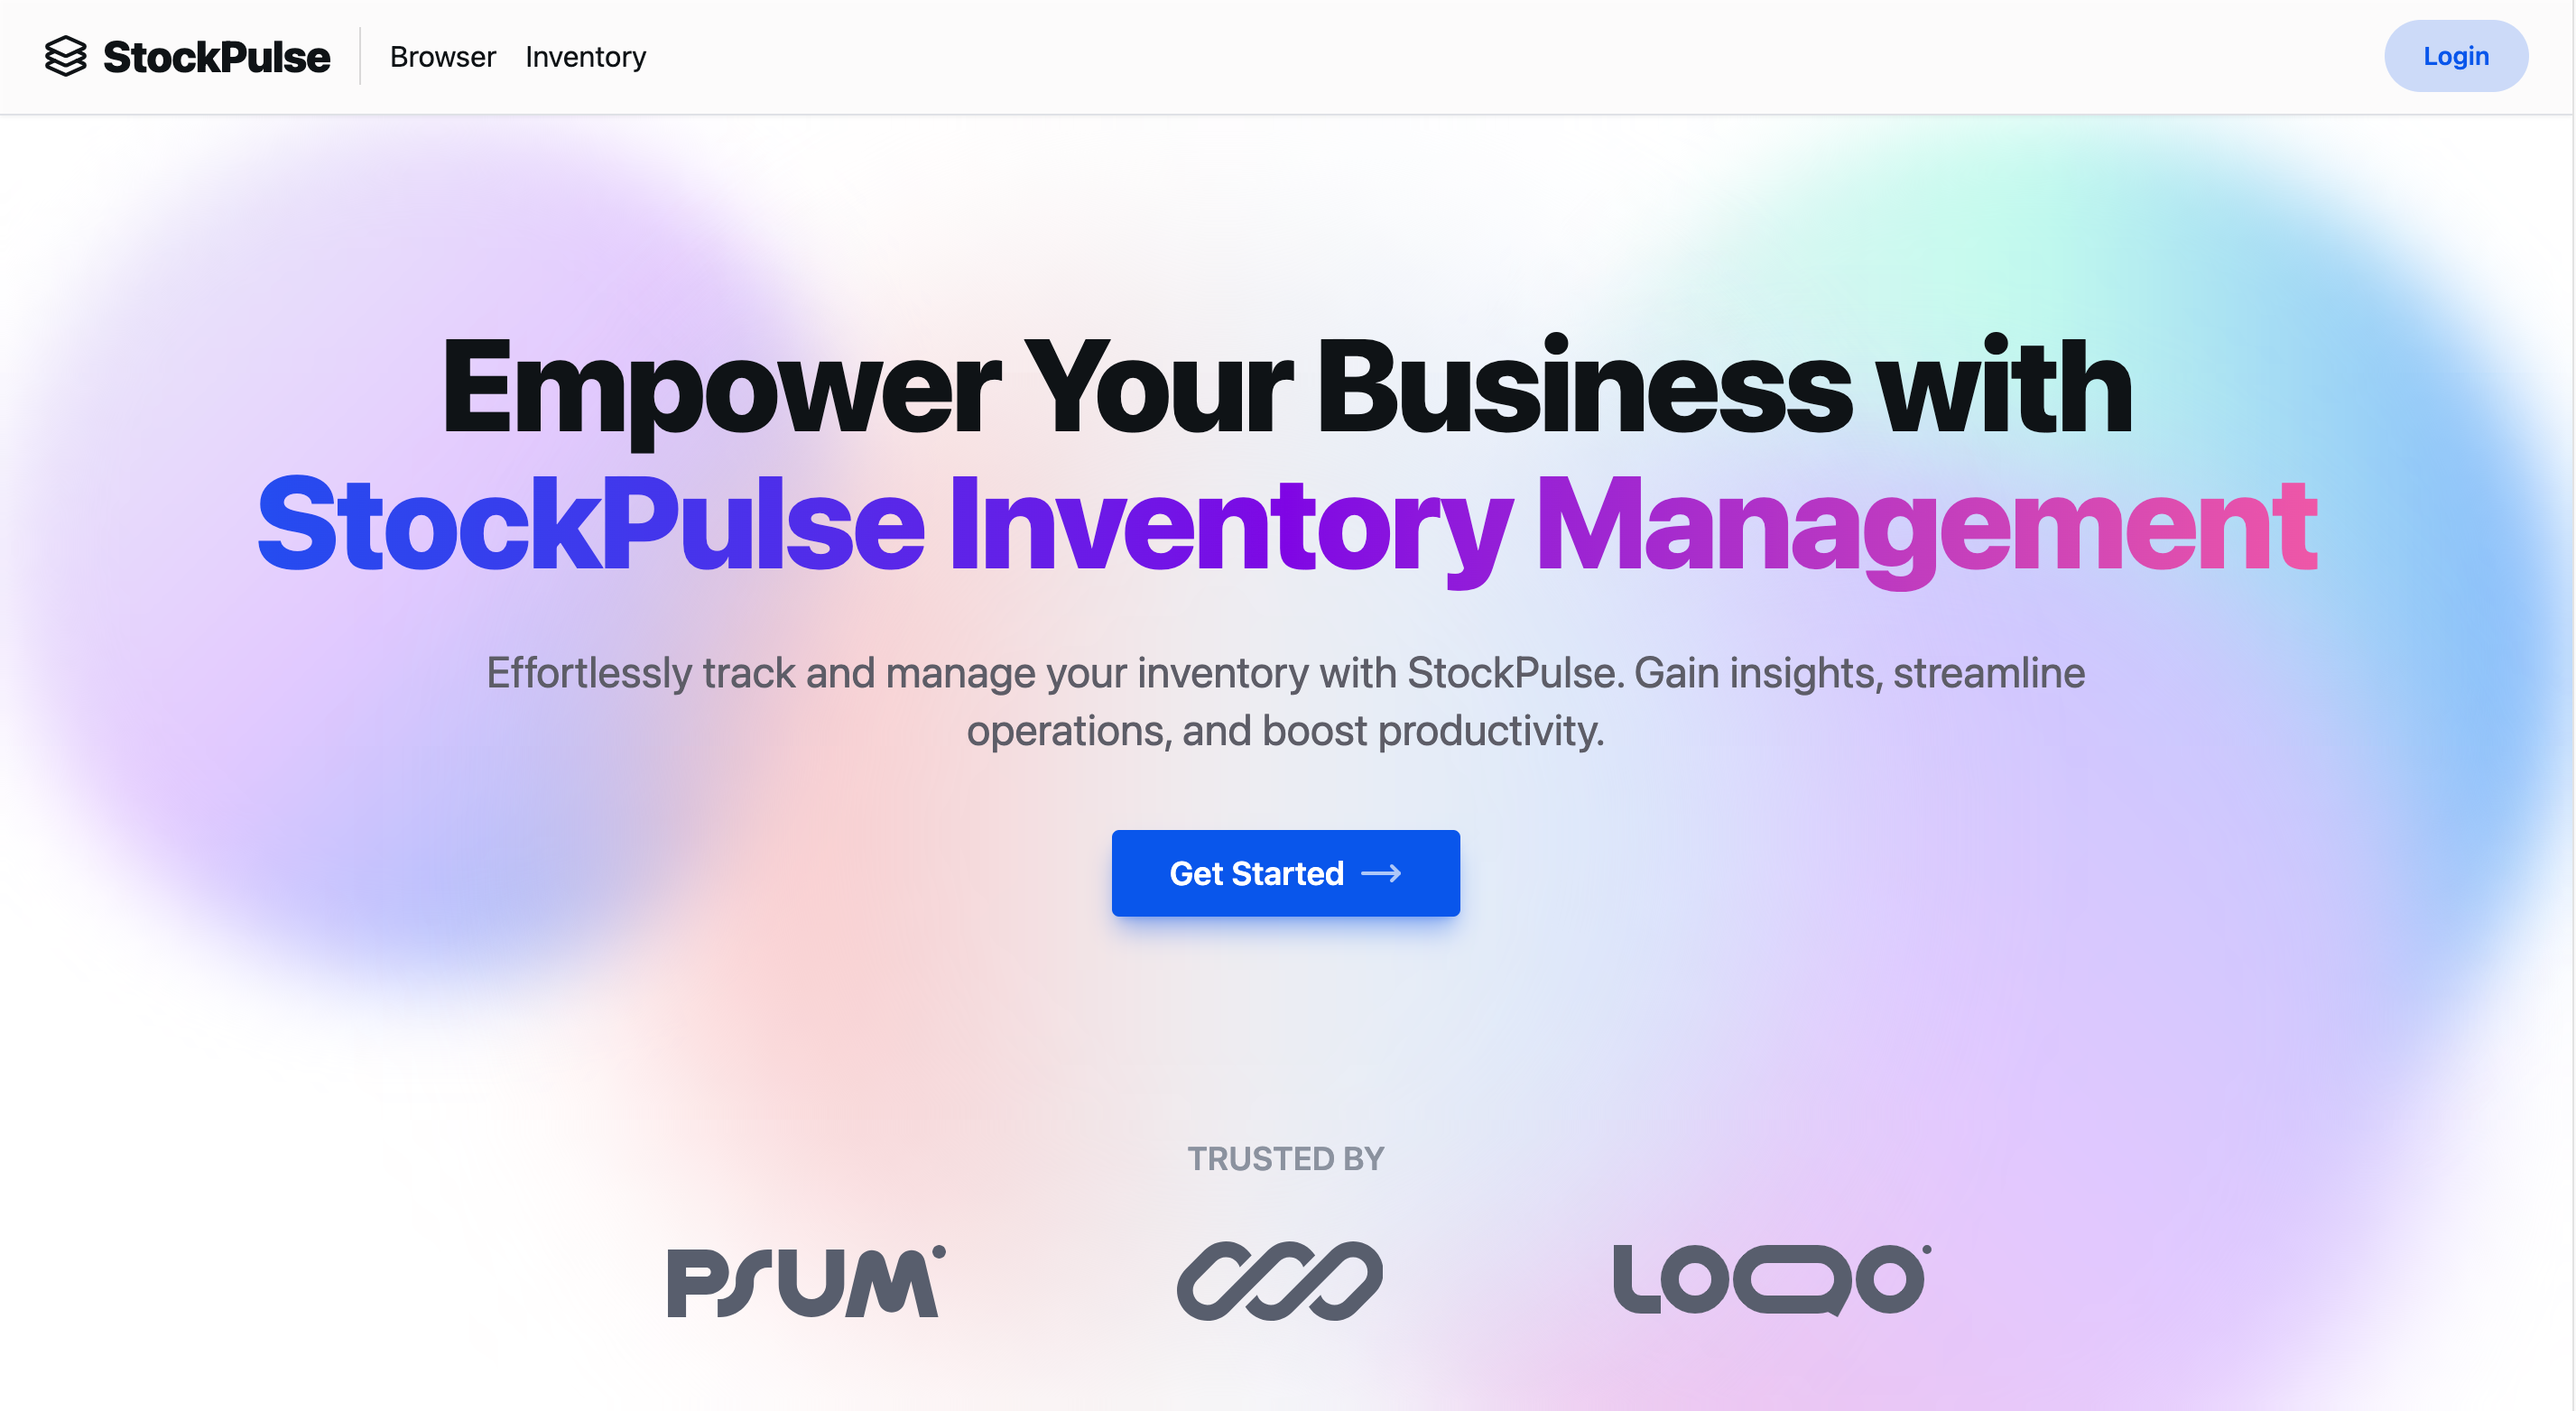
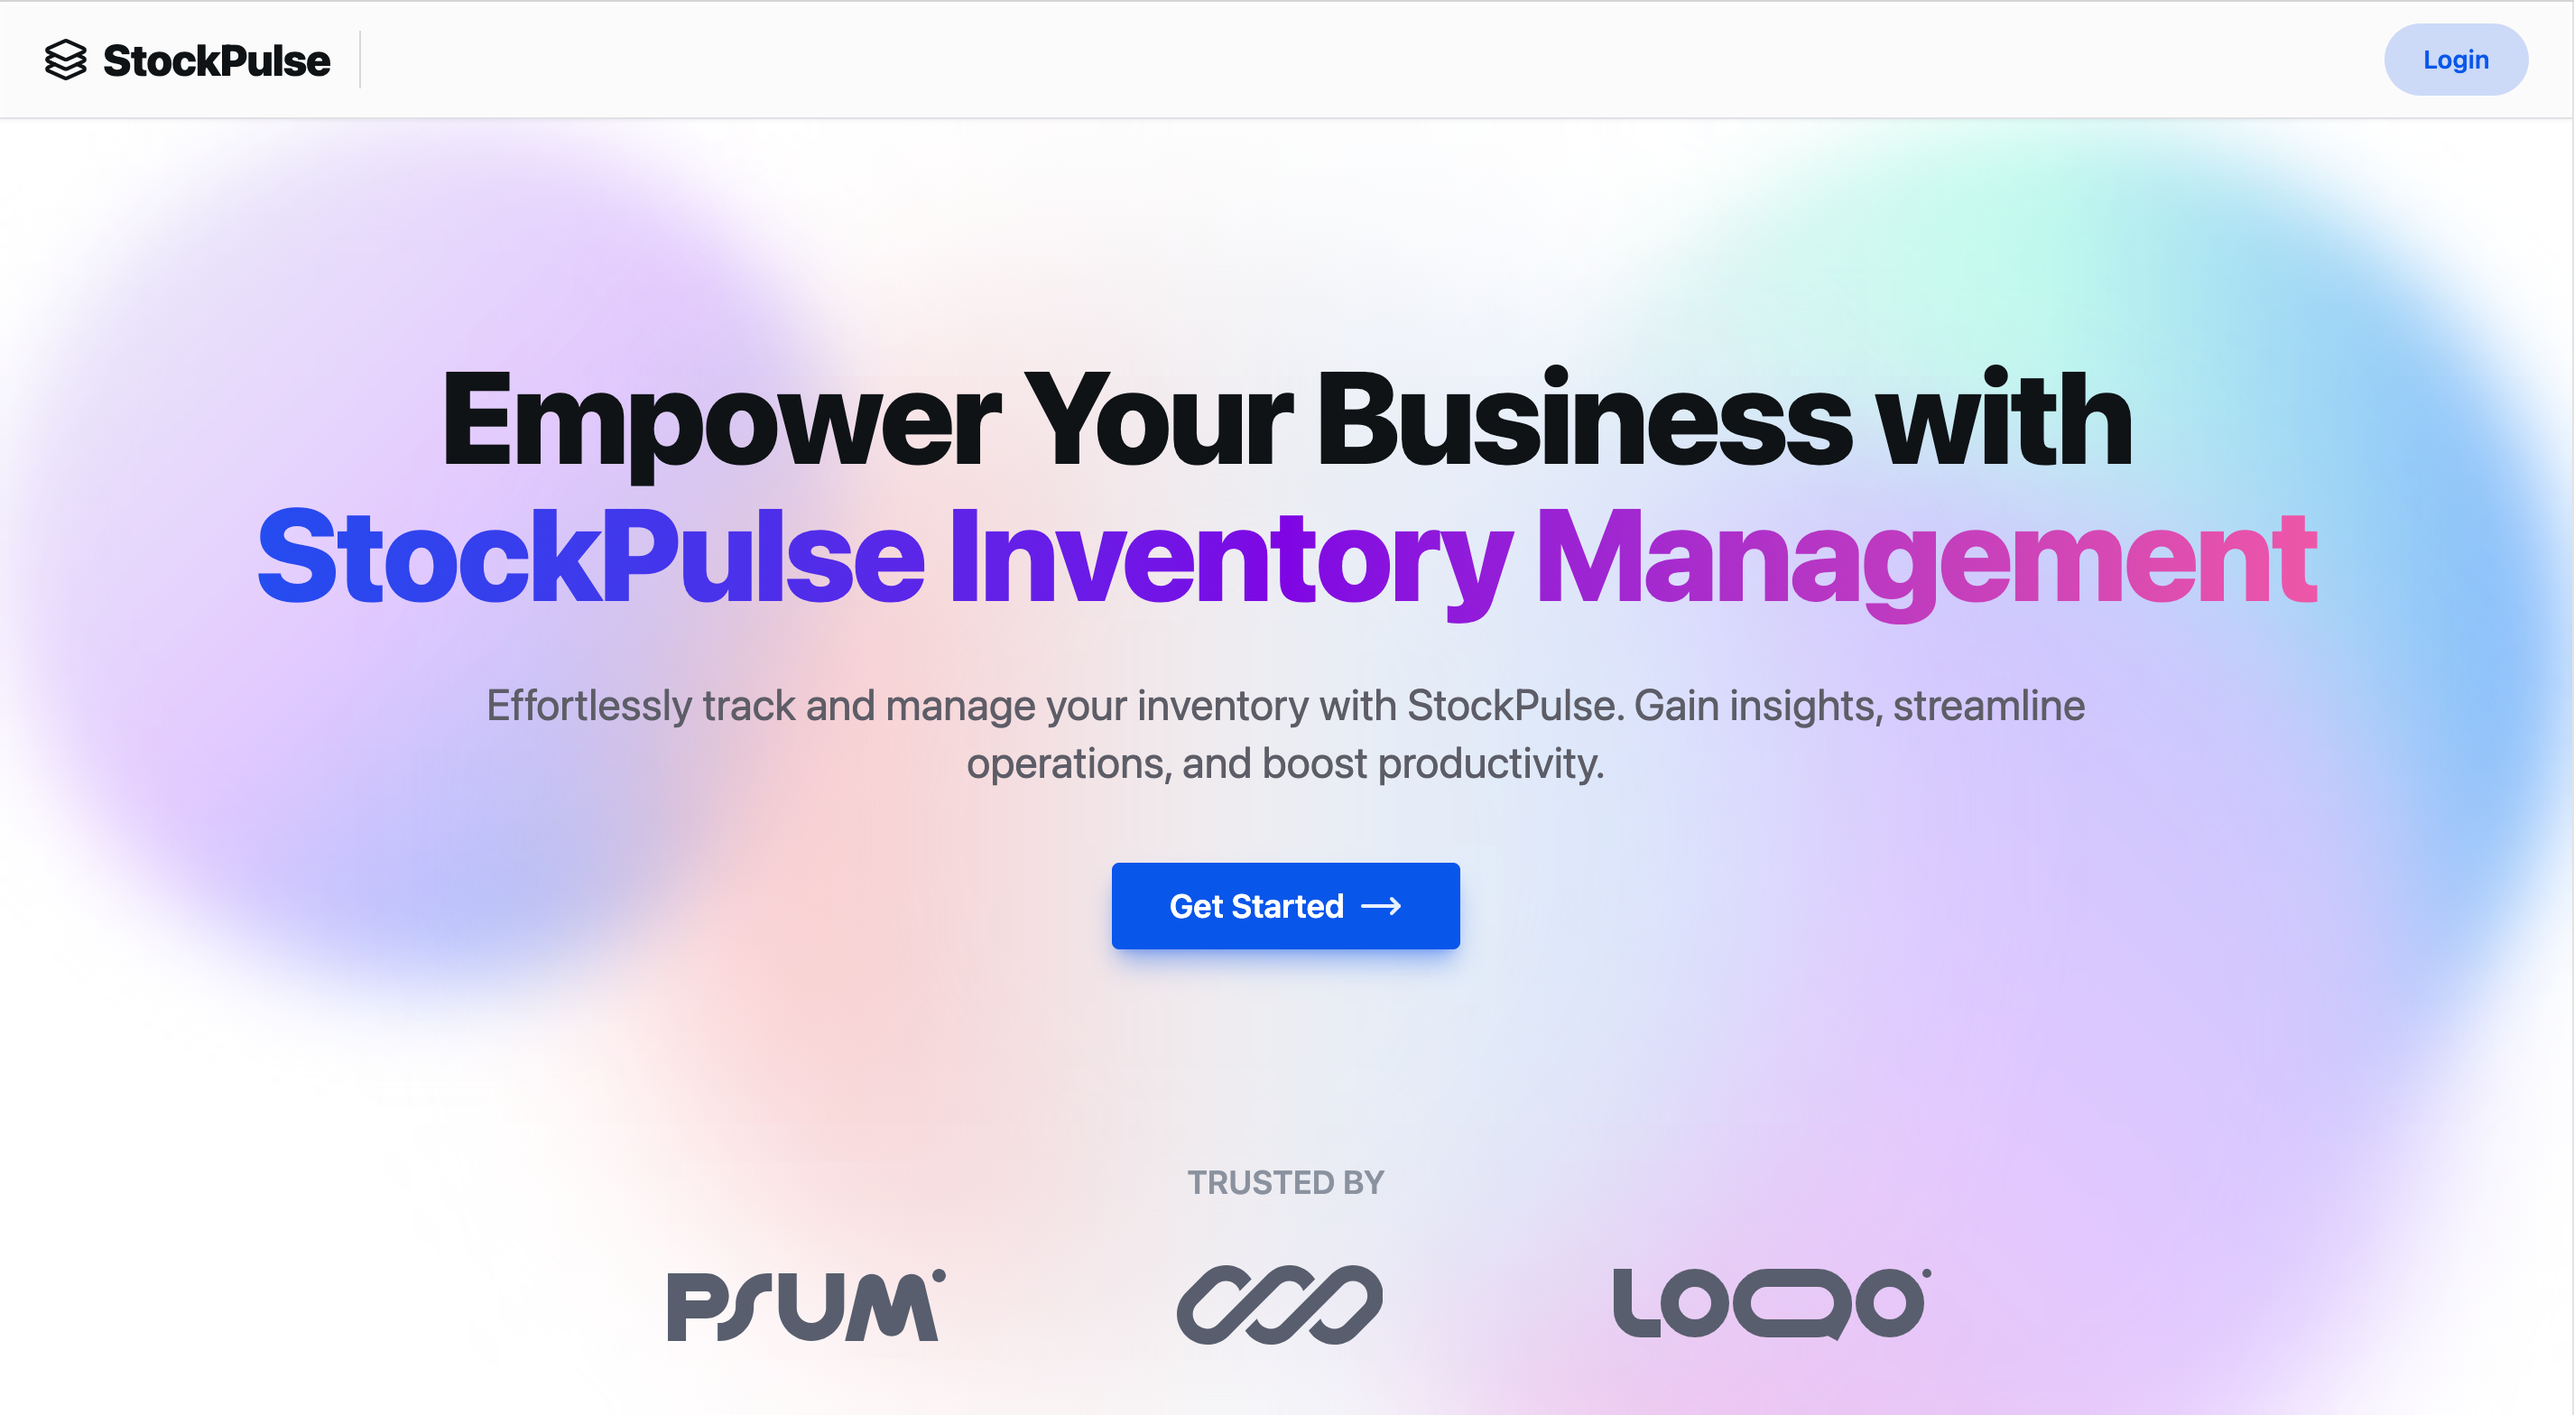
updated landing page screenshots

diff --git a/client/src/pages/Home.jsx b/client/src/pages/Home.jsx
@@ -8,36 +8,38 @@ import BackgroundGradient from "../components/BackgroundGradient";
 
 const Home = () => {
   return (
-    <div className="flex h-fit flex-col items-center justify-center gap-6 pt-24 sm:text-center">
-      <h1 className="text-3xl font-extrabold tracking-tight sm:text-4xl lg:text-7xl">
-        Empower Your Business with <br />
-        <span className="inline-flex bg-gradient-to-r from-[#2f68f3] via-purple-600 to-pink-400 bg-clip-text py-1 text-transparent">
-          StockPulse Inventory Management
-        </span>
-      </h1>
+    <div className="flex min-h-[calc(100vh-6rem)] flex-col justify-between pt-28">
+      <div className="flex flex-col gap-6 sm:text-center">
+        <h1 className="text-3xl font-extrabold tracking-tight sm:text-4xl lg:text-7xl">
+          Empower Your Business with <br />
+          <span className="inline-flex bg-gradient-to-r from-[#2f68f3] via-purple-600 to-pink-400 bg-clip-text py-1 text-transparent">
+            StockPulse Inventory Management
+          </span>
+        </h1>
 
-      <h2 className="pb-4 pt-1 text-default-500 md:text-2xl lg:px-56">
-        Effortlessly track and manage your inventory with StockPulse. Gain
-        insights, streamline operations, and boost productivity.
-      </h2>
+        <h2 className="pb-4 pt-1 text-default-500 md:text-2xl lg:px-56">
+          Effortlessly track and manage your inventory with StockPulse. Gain
+          insights, streamline operations, and boost productivity.
+        </h2>
 
-      <Button
-        as={Link}
-        to="/signup"
-        color="primary"
-        variant="shadow"
-        className=" rounded px-8 py-6 text-lg font-semibold transition duration-250 ease-in-out hover:scale-[1.05] active:animate-appearance-out"
-        endContent={<MoveRight className="animate-pulse" />}
-      >
-        Get Started
-      </Button>
+        <Button
+          as={Link}
+          to="/signup"
+          color="primary"
+          variant="shadow"
+          className="mx-auto w-fit rounded px-8 py-6 text-lg font-semibold transition duration-250 ease-in-out hover:scale-[1.05] active:animate-appearance-out"
+          endContent={<MoveRight className="animate-pulse" />}
+        >
+          Get Started
+        </Button>
+      </div>
 
       {/* --------------- TRUSTED BY ----------------- */}
-      <div class="mx-auto hidden pt-24 text-center sm:block lg:px-36">
+      <div class="mx-auto text-center sm:block lg:px-36">
         <span class="text-lg font-semibold uppercase text-gray-400">
           TRUSTED BY
         </span>
-        <div class="flex flex-col items-center justify-center gap-12 py-8 text-gray-500 sm:flex-row sm:justify-between md:gap-32">
+        <div class="flex flex-col items-center justify-center gap-12 pb-6 pt-8 text-gray-500 sm:flex-row sm:justify-between md:gap-32">
           <LogoOne />
           <LogoTwo />
           <LogoThree />
